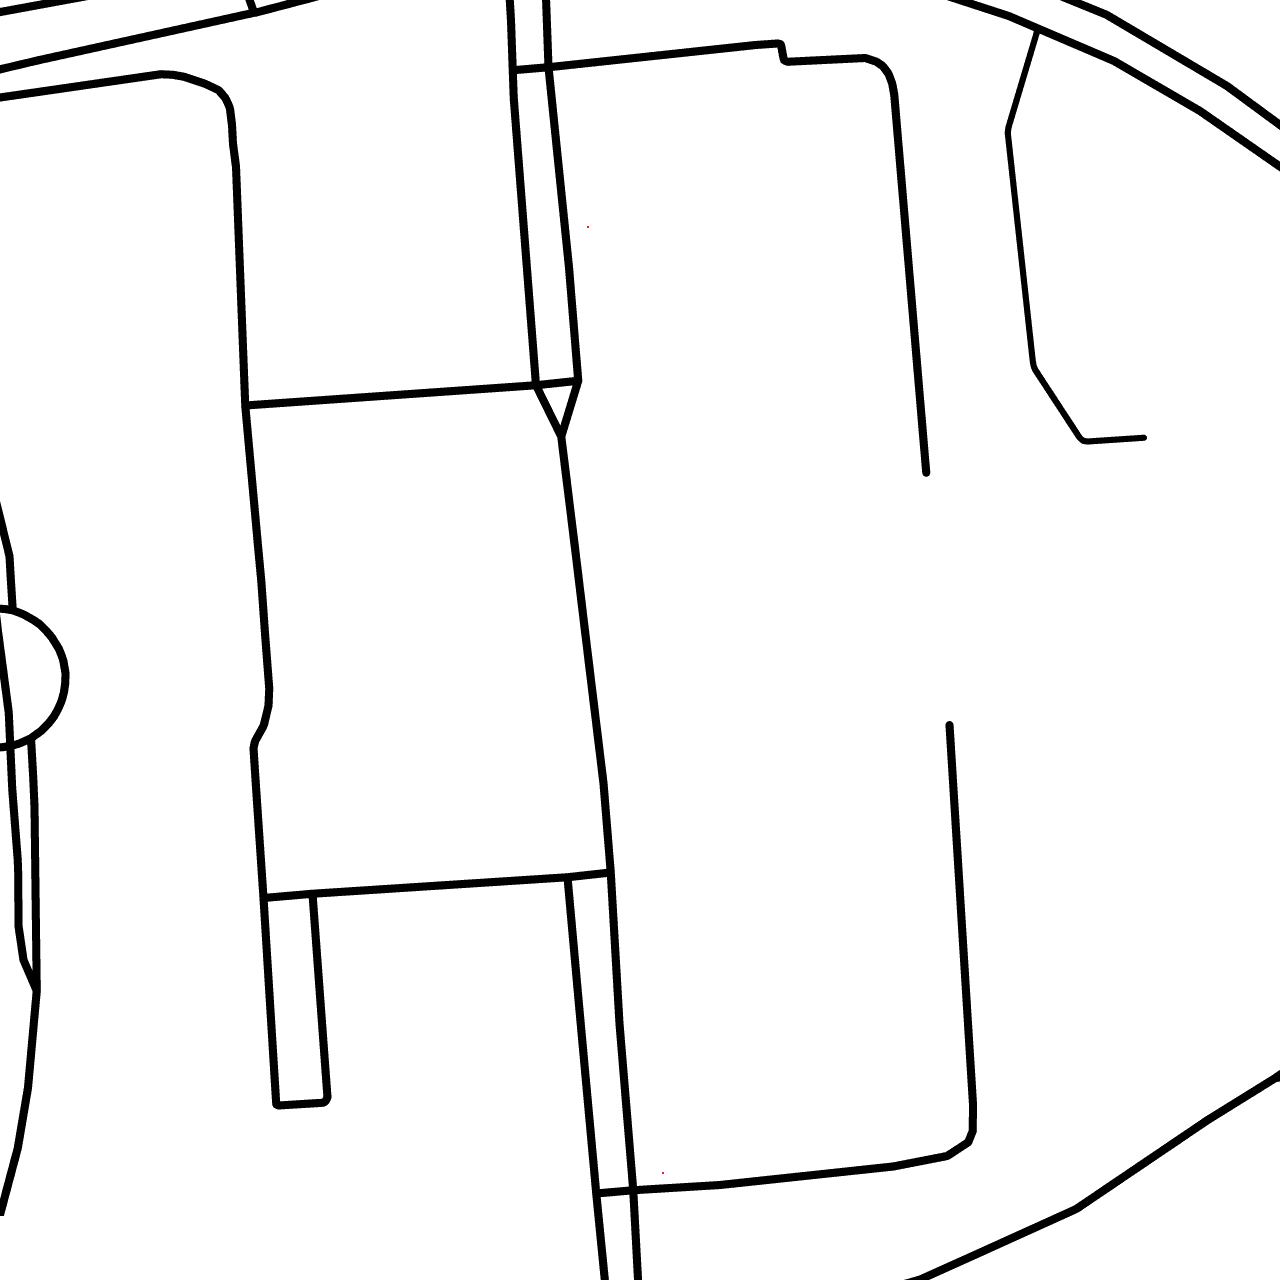
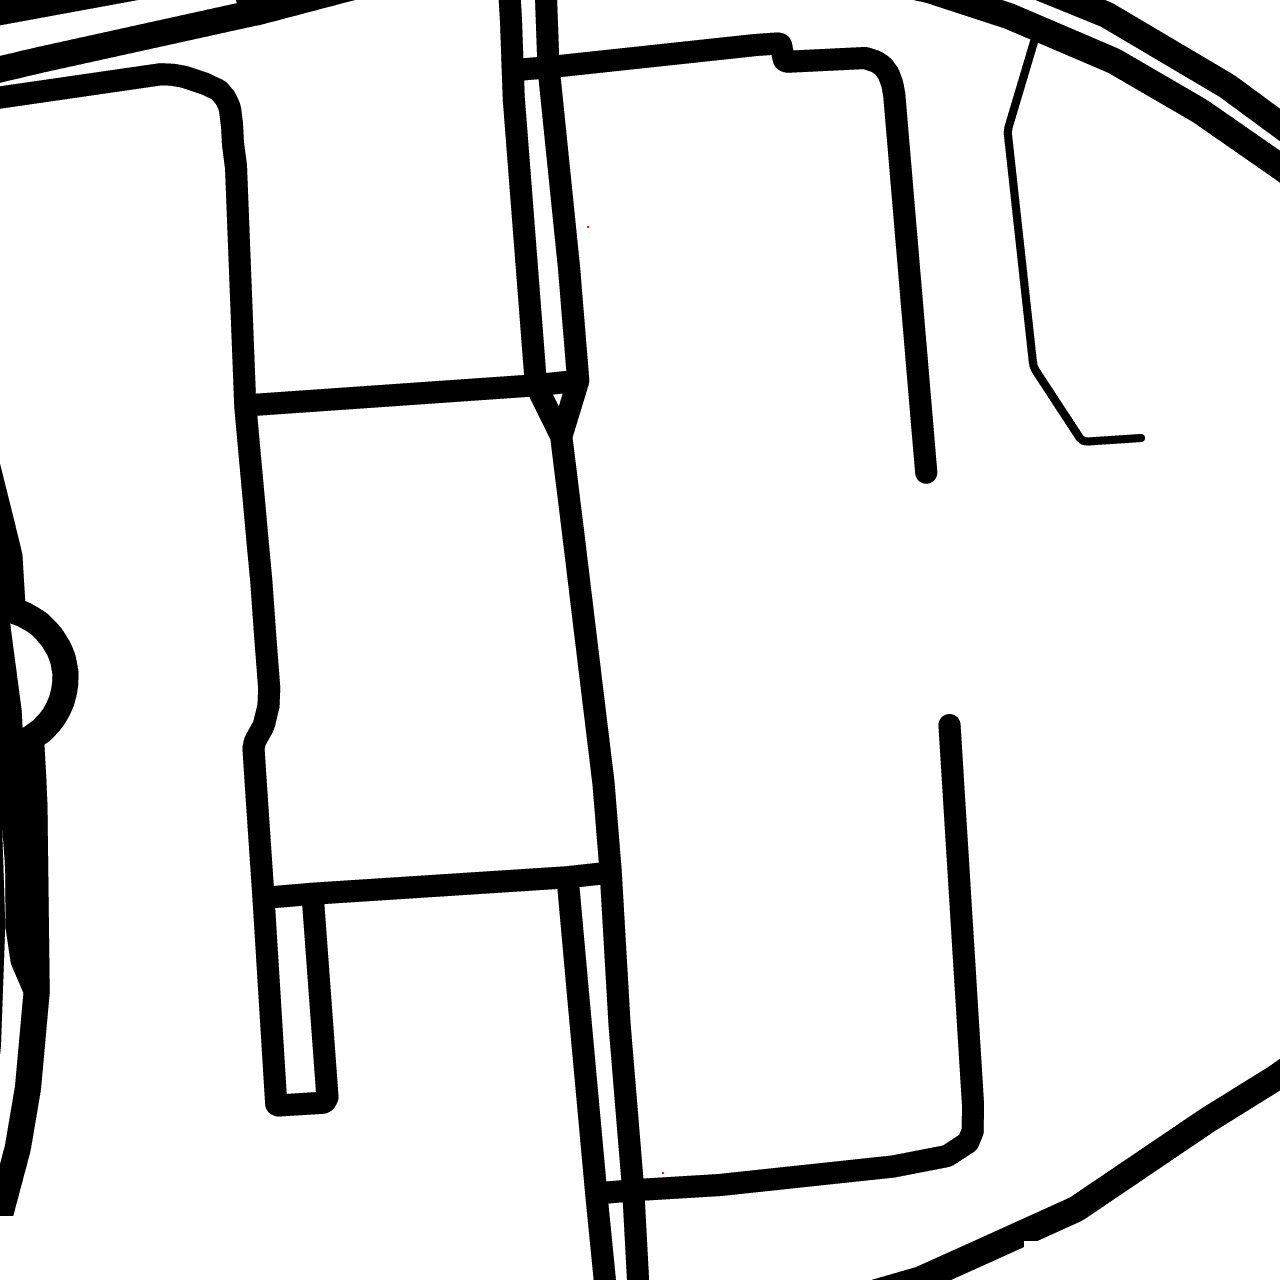
guidance: list ends_id, tecnico_gordo.png

diff --git a/autonomous_fiat/src/guidance/find_path/search.py b/autonomous_fiat/src/guidance/find_path/search.py
@@ -2,6 +2,10 @@ import numpy as np
 import heapq
 import math
 
+# list of possible end ids
+END_IDS = ['A', 'B', 'C', 'D', 'E', 'F', 'G', 'H', 'I', 'J', 'K', 'L', 'M', 'N', 'O', 'P', 'Q', 'R', 'S', 'T', 'U', 'V', 'W', 'X', 'Y', 'Z', 'AA', 'AB', 'AC', 'AD', 'AE', 'AF', 'AG', 'AH', 'AI', 'AJ', 'AK', 'AL', 'AM', 'AN', 'AO', 'AP', 'AQ', 'AR', 'AS', 'AT', 'AU', 'AV', 'AW', 'AX', 'AY', 'AZ', 'BA', 'BB', 'BC', 'BD', 'BE', 'BF', 'BG', 'BH', 'BI', 'BJ', 'BK', 'BL', 'BM', 'BN', 'BO', 'BP', 'BQ', 'BR', 'BS', 'BT', 'BU', 'BV', 'BW', 'BX', 'BY', 'BZ', 'CA', 'CB', 'CC', 'CD', 'CE', 'CF', 'CG', 'CH', 'CI', 'CJ', 'CK', 'CL', 'CM', 'CN', 'CO', 'CP', 'CQ', 'CR', 'CS', 'CT', 'CU', 'CV', 'CW', 'CX', 'CY', 'CZ', 'DA', 'DB', 'DC', 'DD', 'DE', 'DF', 'DG', 'DH', 'DI', 'DJ', 'DK', 'DL', 'DM', 'DN', 'DO', 'DP', 'DQ', 'DR', 'DS', 'DT', 'DU', 'DV', 'DW', 'DX', 'DY', 'DZ', 'EA', 'EB', 'EC', 'ED', 'EE', 'EF', 'EG', 'EH', 'EI', 'EJ', 'EK', 'EL', 'EM', 'EN', 'EO', 'EP', 'EQ', 'ER', 'ES', 'ET', 'EU', 'EV', 'EW', 'EX', 'EY', 'EZ', 'FA', 'FB', 'FC', 'FD', 'FE', 'FF', 'FG', 'FH', 'FI', 'FJ', 'FK', 'FL', 'FM', 'FN', 'FO', 'FP', 'FQ', 'FR', 'FS', 'FT', 'FU', 'FV', 'FW', 'FX', 'FY', 'FZ', 'GA', 'GB', 'GC', 'GD', 'GE', 'GF', 'GG', 'GH', 'GI', 'GJ', 'GK', 'GL', 'GM', 'GN', 'GO', 'GP', 'GQ', 'GR', 'GS', 'GT', 'GU', 'GV', 'GW', 'GX', 'GY', 'GZ', 'HA', 'HB', 'HC', 'HD', 'HE', 'HF', 'HG', 'HH','HI', 'HJ', 'HK', 'HL', 'HM', 'HN', 'HO', 'HP', 'HQ', 'HR', 'HS', 'HT', 'HU', 'HV', 'HW', 'HX', 'HY', 'HZ', 'IA', 'IB', 'IC', 'ID', 'IE', 'IF', 'IG', 'IH', 'II', 'IJ', 'IK', 'IL', 'IM', 'IN', 'IO', 'IP', 'IQ', 'IR', 'IS', 'IT', 'IU', 'IV', 'IW', 'IX', 'IY', 'IZ', 'JA', 'JB', 'JC', 'JD', 'JE', 'JF', 'JG', 'JH', 'JI', 'JJ', 'JK', 'JL', 'JM', 'JN', 'JO', 'JP', 'JQ', 'JR', 'JS', 'JT', 'JU', 'JV', 'JW', 'JX', 'JY', 'JZ', 'KA', 'KB', 'KC', 'KD', 'KE', 'KF', 'KG', 'KH', 'KI', 'KJ', 'KK', 'KL', 'KM', 'KN', 'KO', 'KP', 'KQ', 'KR', 'KS', 'KT', 'KU', 'KV', 'KW', 'KX', 'KY', 'KZ', 'LA', 'LB', 'LC', 'LD', 'LE', 'LF', 'LG', 'LH', 'LI', 'LJ', 'LK', 'LL', 'LM', 'LN', 'LO', 'LP', 'LQ', 'LR', 'LS', 'LT', 'LU', 'LV', 'LW', 'LX', 'LY', 'LZ', 'MA', 'MB', 'MC', 'MD', 'ME', 'MF', 'MG', 'MH', 'MI', 'MJ', 'MK', 'ML', 'MM', 'MN', 'MO', 'MP', 'MQ', 'MR', 'MS', 'MT', 'MU', 'MV', 'MW', 'MX', 'MY', 'MZ', 'NA', 'NB', 'NC', 'ND', 'NE', 'NF', 'NG', 'NH', 'NI', 'NJ', 'NK']
+
+           
 def euclidean(a, b):
     x1, y1 = a
     x2, y2 = b
@@ -113,10 +117,9 @@ class Map:
         all_edges = [Edge(cluster) for cluster in clusters]
 
         # name all ends with same locations with same id
-        end_id = 'A'
         unique_ends = {}
         shorter_edges = {}
-
+        end_id_ix = 0
         # create dict of minimal distance between two equal ends: shorter_edges = {end1,end2: min_distance...}
         for edge in all_edges:
             edge_locs = self.sortedEdgeLocs(edge)
@@ -128,10 +131,10 @@ class Map:
             # create dict of unique ends and give them a unique id: unique_ends = {end.location: end.id... }
             for end in edge.ends:
                 if end.location not in unique_ends:
-                    end.id = end_id
+                    end.id = END_IDS[end_id_ix]
                     self.unique_ends.append(end)
-                    unique_ends[end.location] = end_id
-                    end_id = chr(ord(end_id) + 1)
+                    unique_ends[end.location] = END_IDS[end_id_ix]
+                    end_id_ix+=1
                 else:
                     end.id = unique_ends[end.location]
         

diff --git a/autonomous_fiat/src/guidance/find_path/main.py b/autonomous_fiat/src/guidance/find_path/main.py
@@ -25,7 +25,10 @@ START_POINTS = [None, None, None, None]
 END_POINTS = [None, None, None, None] 
 
 # transformation matrices from image frame to inertial frame (real world frame) 
-R_MATRIX = [None, 
+R_MATRIX = [np.array([[-2.02335264e-04,  2.32154232e-01,  4.87789686e+05],
+                      [-2.32154232e-01, -2.02335264e-04,  4.28772133e+06],
+                      [ 0.00000000e+00,  0.00000000e+00,  1.00000000e+00]]), 
+            
             np.array([[-2.02335264e-04,  2.32154232e-01,  4.87789686e+05],
                       [-2.32154232e-01, -2.02335264e-04,  4.28772133e+06],
                       [ 0.00000000e+00,  0.00000000e+00,  1.00000000e+00]]), 
@@ -33,10 +36,10 @@ R_MATRIX = [None,
             None] 
 
 # list images available
-FILENAMES = ['images/tecnico.jpg', 'images/tecnico_1280.png' , 'images/path2.png', 'images/path3.jpg']
+FILENAMES = ['images/tecnico_gordo.png', 'images/tecnico.png' , 'images/path2.png', 'images/path3.jpg']
 
 # Indexes of images in filenames list TO ACTUALLY PROCESS
-TO_PROCESS = [1]
+TO_PROCESS = [0]
 
 ############################################################################################
 #########     SECTIONS OF THE CODE AND HYPERPARAMETERS OF EACH SECTION     #################
@@ -56,7 +59,7 @@ MIN_DIST_CLUSTER = 2 # sort cluster window: minimum distance between 2 points of
 
 # Search path
 
-INTER_CLUSTER_DIST = 8 # maximum distance between 2 clusters to be considered neighbors
+INTER_CLUSTER_DIST = 15 # maximum distance between 2 clusters to be considered neighbors
 
 # Save GIF
 GIF = False

diff --git a/autonomous_fiat/src/guidance/find_path/smooth_path.py b/autonomous_fiat/src/guidance/find_path/smooth_path.py
@@ -187,9 +187,7 @@ def visualize_path(path: np.ndarray, car: Car, binary_map: np.ndarray, smooth_pa
             rotate = Affine2D().rotate_deg_around(x, y, angle)
             rect.set_transform(rotate + ax.transData)
         return rect,
-    print("animating")
     ani = animation.FuncAnimation(fig, update, frames=range(len(smooth_path)), interval = 200, blit=True)
-    print("done")
     plt.show()
     #ani.save("animation.gif")
     # print("saved")

diff --git a/autonomous_fiat/src/guidance/maps_processing/transformation_matrix.py b/autonomous_fiat/src/guidance/maps_processing/transformation_matrix.py
@@ -19,7 +19,7 @@ MAP_PARAMETERS = {
     'size':'1280x1280',
     'scale':2,
     'markers':f'icon:{MARKER_ICON_LINK}|{GPS_MARKERS[0][0]},{GPS_MARKERS[0][1]}|{GPS_MARKERS[1][0]},{GPS_MARKERS[1][1]}',
-    'map_id':MAP_ID['lines'], # 'lines' or 'filled'
+    'map_id':MAP_ID['filled'], # 'lines' or 'filled'
     'key':'AIzaSyCKuSK8xL3HkvP0xINBxb3n1yDxWWvwxHk',
     # 'maptype':'satellite'
 }
